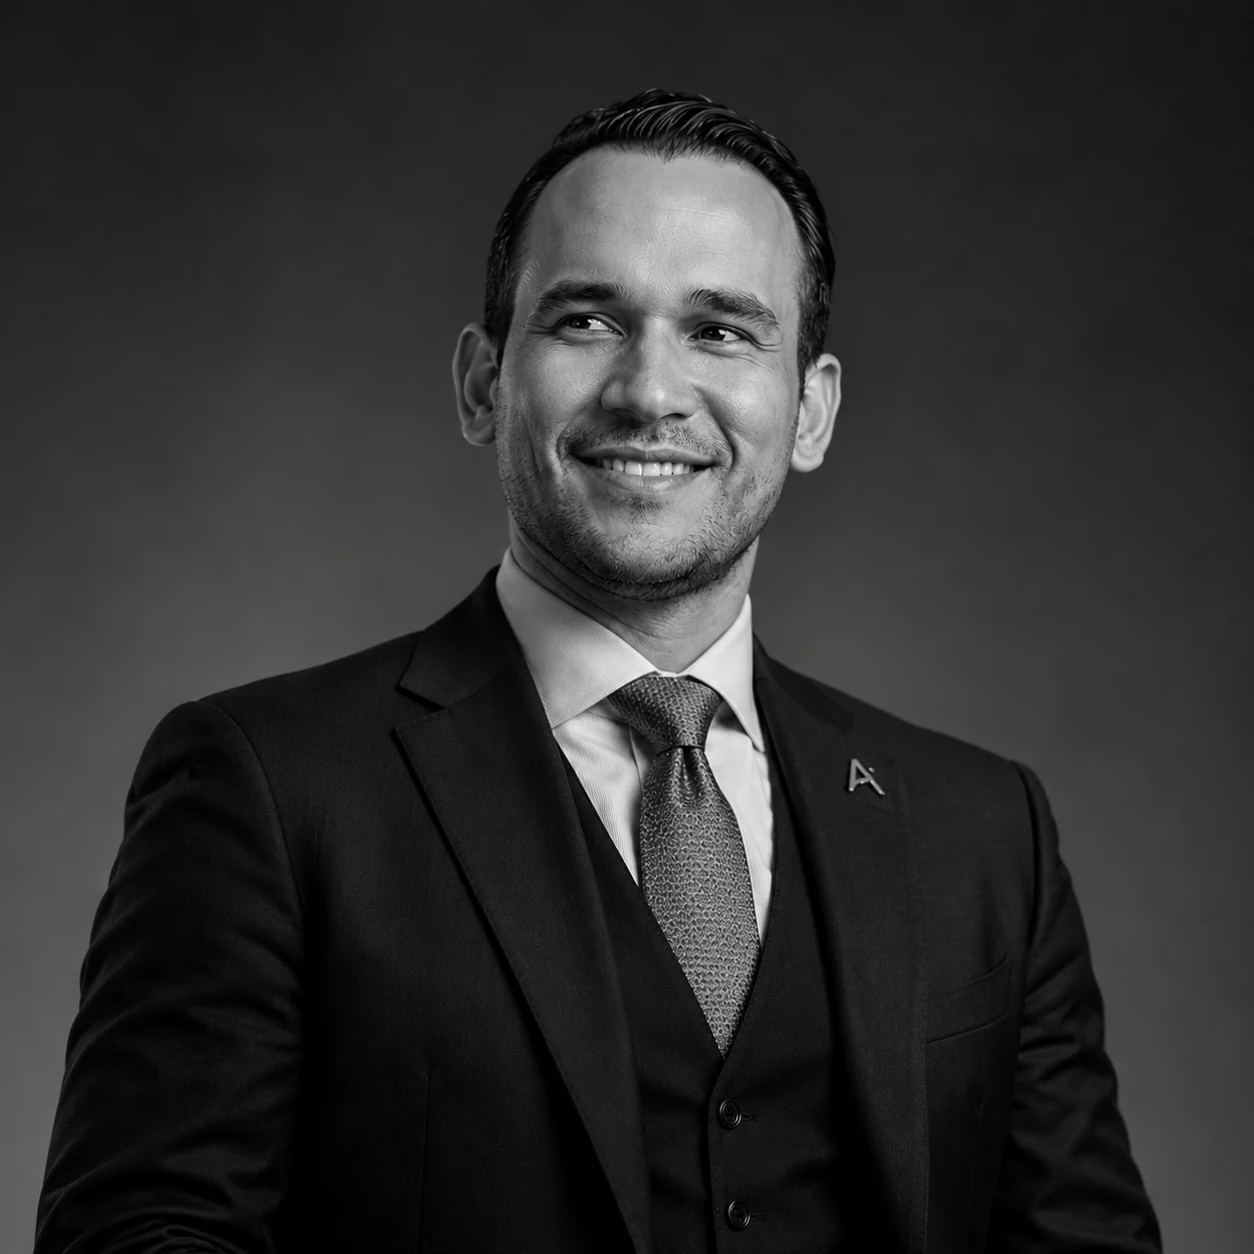
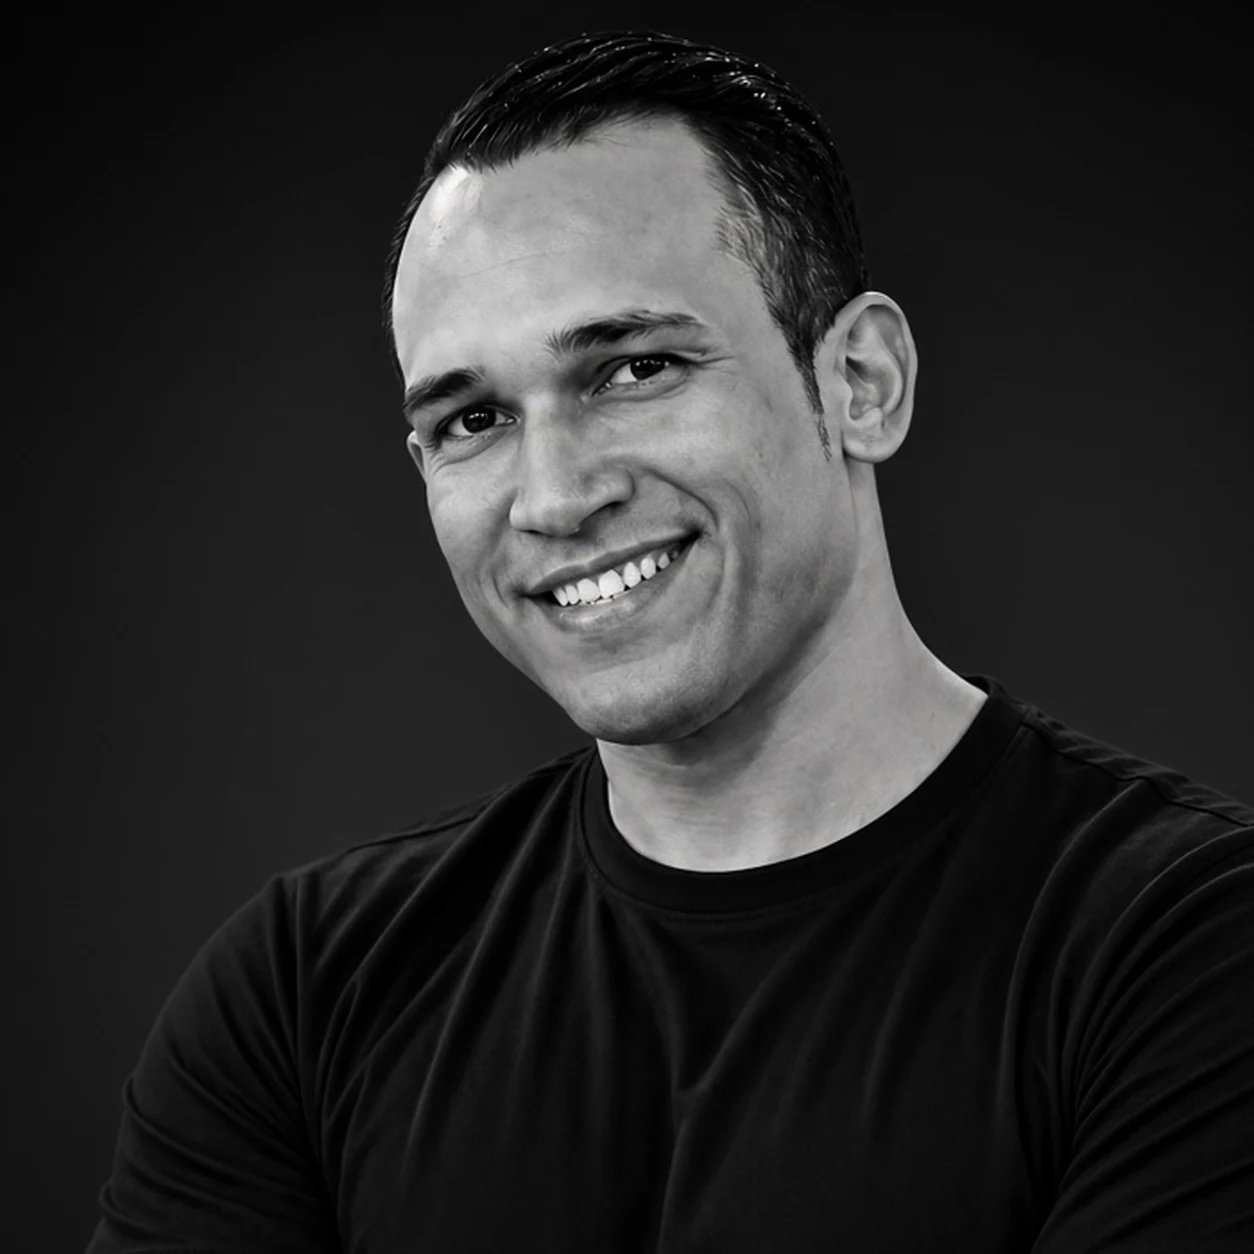
team: new Kallebe Gallo portrait, cropped to match Michel's

diff --git a/lib/content.ts b/lib/content.ts
@@ -569,7 +569,7 @@ export type TeamMember = {
 
 /**
  * Person -> portrait mapping (confirmed by Michel).
- * photo-a: Kallebe, suit and tie. photo-b: Michel, black t-shirt.
+ * photo-a: Kallebe, black t-shirt. photo-b: Michel, black t-shirt.
  */
 export const TEAM_PHOTOS: Record<string, string> = {
   "michel-branche": "/team/photo-b.webp",
